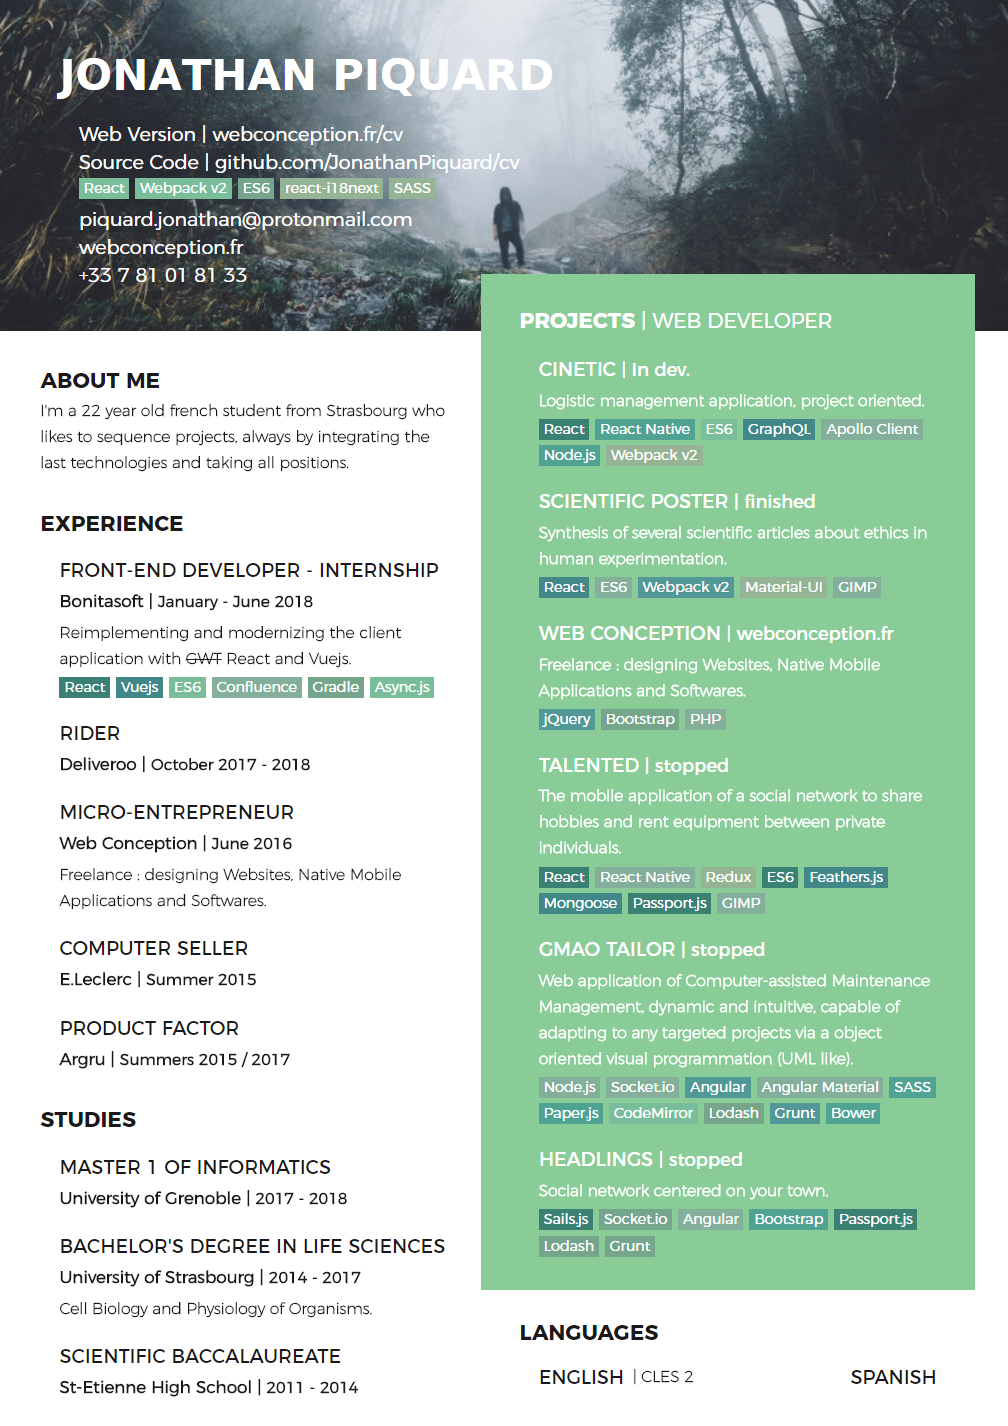
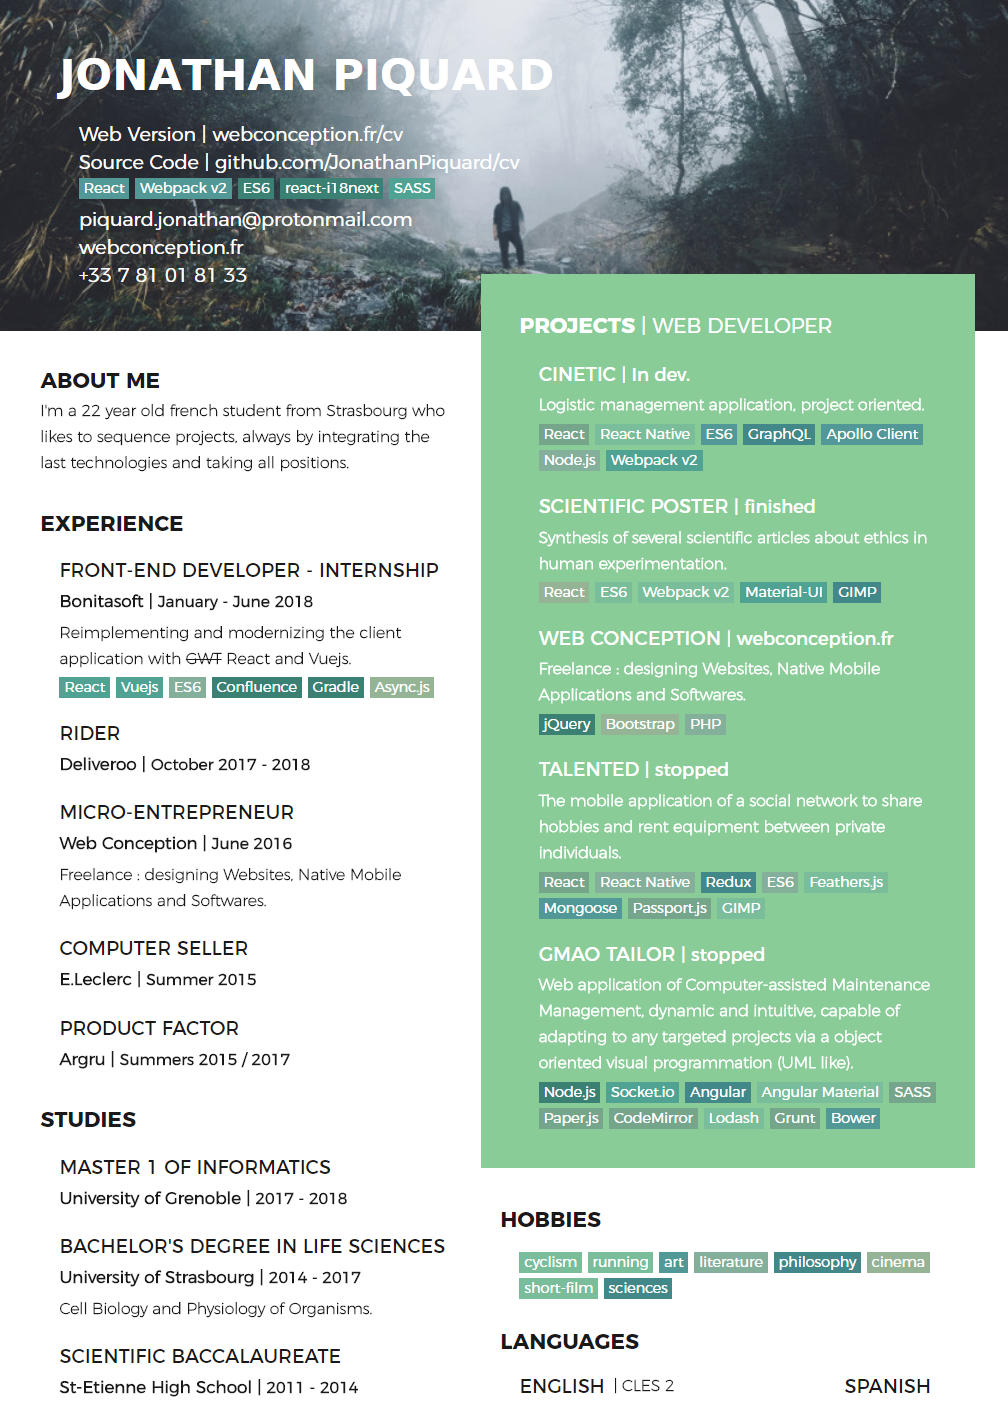
responsive adjustements

diff --git a/src/pages/CV/subparts/RightSection/index.js b/src/pages/CV/subparts/RightSection/index.js
@@ -47,24 +47,27 @@ class RightSection extends Component {
               <p className='category-item-description'>{t('rightSection.webProjects.items.gmao-tailor.description')}</p>
               <BadgeList technologies badges={['Node.js', 'Socket.io', 'Angular', 'Angular Material', 'SASS', 'Paper.js', 'CodeMirror', 'Lodash', 'Grunt', 'Bower']} />
             </div>
-
-            <div className='category-item'>
-              <h4 className='category-item-title'>Headlings<span className='category-item-title-mention'> | {t('rightSection.webProjects.items.headlings.status')}</span></h4>
-              <p className='category-item-description'>{t('rightSection.webProjects.items.headlings.description')}</p>
-              <BadgeList technologies badges={['Sails.js', 'Socket.io', 'Angular', 'Bootstrap', 'Passport.js', 'Lodash', 'Grunt']} />
-            </div>
           </div>
         </div>
 
-        <div id='languages' className='category'>
-          <h3 className='category-title'>{t('rightSection.languages.title')}</h3>
-          <div className='category-items'>
-            <div className='category-item category-item-with-description'>
-              <h4 className='category-item-title'>{t('rightSection.languages.items.english')}</h4>
-              <p className='category-item-description'>| CLES 2</p>
+        <div className="container-categories">
+          <div className='category'>
+            <h3 className='category-title'>{t('rightSection.hobbies.title')}</h3>
+            <div className='category-items'>
+              <BadgeList badges={["cyclism", "running", "art", "literature", "philosophy", "cinema", "short-film", "sciences"].map((hobby) => t('rightSection.hobbies.items.' + hobby))} />
             </div>
-            <div className='category-item'>
-              <h4 className='category-item-title'>{t('rightSection.languages.items.spanish')}</h4>
+          </div>
+
+          <div id="languages" className='category'>
+            <h3 className='category-title'>{t('rightSection.languages.title')}</h3>
+            <div className='category-items'>
+              <div className='category-item category-item-with-description'>
+                <h4 className='category-item-title'>{t('rightSection.languages.items.english')}</h4>
+                <p className='category-item-description'>| CLES 2</p>
+              </div>
+              <div className='category-item'>
+                <h4 className='category-item-title'>{t('rightSection.languages.items.spanish')}</h4>
+              </div>
             </div>
           </div>
         </div>

diff --git a/src/pages/CV/subparts/Header/styles.scss b/src/pages/CV/subparts/Header/styles.scss
@@ -3,10 +3,14 @@
     #header > div {
         > div {
             line-height: 20px;
-            margin: 25px 20px 5px 30px;
+            margin: 25px 20px 20px 30px;
 
             > h1 {
                 font-size: 23px;
+            }
+
+            > h4 a span {
+                font-size: 11px;
             }
 
             > div h4 {
@@ -20,10 +24,14 @@
     #header > div {
         > div {
             line-height: 24px;
-            margin: 25px 20px 5px 30px;
+            margin: 25px 20px 20px 30px;
 
             > h1 {
                 font-size: 30px;
+            }
+
+            > h4 a span {
+                font-size: 12px;
             }
 
             > div h4 {
@@ -35,10 +43,14 @@
 
 @media (min-width: 550px) {
     #header > div > div {
-        margin: 40px 30px 12px 45px;
+        margin: 40px 30px 30px 45px;
 
         > h1 {
             font-size: 28px;
+        }
+
+        > h4 a span {
+            font-size: 13px;
         }
 
         > div h4 {
@@ -54,6 +66,10 @@
 
             > h1 {
                 font-size: 36px;
+            }
+
+            > h4 a span {
+                font-size: 14px;
             }
 
             > div h4 {
@@ -87,6 +103,10 @@
 
             > div {
                 margin: 5px 0 5px 16px;
+
+                > h4 a span {
+                    font-style: italic;
+                }
 
                 h4 {
                     margin: 0;

diff --git a/src/pages/CV/subparts/RightSection/styles.scss b/src/pages/CV/subparts/RightSection/styles.scss
@@ -4,11 +4,6 @@
         > #webProjects {
             padding: 20px;
         }
-
-        > #languages {
-            padding-left: 20px;
-            padding-right: 20px;
-        }
     }
 }
 
@@ -16,11 +11,6 @@
     #rightSection {
         > #webProjects {
             padding: 46px;
-        }
-
-        > #languages {
-            padding-left: 46px;
-            padding-right: 46px;
         }
     }
 }
@@ -33,12 +23,7 @@
         padding-right: 27px;
 
         > #webProjects {
-            padding: 28px 32px;
-        }
-
-        > #languages {
-            padding-left: 32px;
-            padding-right: 32px;
+            padding: 32px;
         }
     }
 }
@@ -49,18 +34,18 @@
     flex: 1.1;
 
     > #webProjects {
-        margin-bottom: 12px;
         background-color: #8acc98;
         color: #fff;
     }
 
-    > #languages {
+    #languages {
         > .category-items {
             display: flex;
 
             > .category-item {
                 display: flex;
                 margin-top: 0;
+                margin-right: 16px;
 
                 > .category-item-description {
                     margin: 0 0 0 7.5px;

diff --git a/src/pages/CV/subparts/LeftSection/index.js b/src/pages/CV/subparts/LeftSection/index.js
@@ -13,7 +13,7 @@ class LeftSection extends Component {
     const { t } = this.props;
 
     return (
-      <section id='leftSection'>
+      <section id='leftSection' className="container-categories">
         <div className='category'>
           <h3 className='category-title'>{t('leftSection.about-me.title')}</h3>
           <p className='category-description'>{t('leftSection.about-me.description')}</p>
@@ -66,17 +66,6 @@ class LeftSection extends Component {
             </div>
           </div>
         </div>
-
-        {
-          /*
-            <div className='category'>
-              <h3 className='category-title'>{t('leftSection.hobbies.title')}</h3>
-              <div className='category-items'>
-                <BadgeList badges={["cyclism", "running", "art", "literature", "philosophy", "cinema", "short-film", "sciences"].map((hobby) => t('leftSection.hobbies.items.' + hobby))} />
-              </div>
-            </div>
-          */
-        }
 
       </section>
     );

diff --git a/src/pages/CV/styles.scss b/src/pages/CV/styles.scss
@@ -1,5 +1,9 @@
 
 @media (max-width: 429px) {
+    .container-categories {
+        padding: 10px;
+    }
+
     #container .category {
         padding: 10px;
 
@@ -42,6 +46,10 @@
 }
 
 @media (min-width: 430px) {
+    .container-categories {
+        padding: 30px;
+    }
+
     #container .category {
         padding: 12px 16px;
 
@@ -86,6 +94,10 @@
 }
 
 @media (min-width: 730px) {
+    .container-categories {
+        padding: 18px 9px 18px 18px;
+    }
+
     #container .category > .category-items {
         margin-left: 16px;
     }
@@ -128,6 +140,12 @@
     > article {
         display: flex;
         flex: 1;
+
+        .container-categories {
+            display: flex;
+            flex-direction: column;
+            flex: 1;
+        }
 
         .category {
             > .category-title {

diff --git a/src/pages/CV/subparts/Header/index.js b/src/pages/CV/subparts/Header/index.js
@@ -22,10 +22,10 @@ class Header extends Component {
 
             <div>
               <h4>
-                <a href='https://webconception.fr/cv'>{t('header.web-version')} | webconception.fr/cv</a>
+                <a href='https://webconception.fr/cv'>{t('header.web-version')} | <span>webconception.fr/cv</span></a>
               </h4>
               <h4>
-                <a href='https://github.com/JonathanPiquard/cv.git'>{t('header.source-code')} | github.com/JonathanPiquard/cv</a>
+                <a href='https://github.com/JonathanPiquard/cv.git'>{t('header.source-code')} | <span>github.com/JonathanPiquard/cv</span></a>
               </h4>
               <BadgeList technologies badges={['React', 'Webpack v2', 'ES6', 'react-i18next', 'SASS']} />
             </div>

diff --git a/src/components/Badge/styles.scss b/src/components/Badge/styles.scss
@@ -1,12 +1,19 @@
 
 @media (max-width: 429px) {
     .badge {
-      font-size: 11px;
-      line-height: 17px;
+      font-size: 9px;
+      line-height: 12px;
     }
 }
 
-@media (min-width: 430px) {
+@media (max-width: 729px) {
+    .badge {
+      font-size: 11px;
+      line-height: 16px;
+    }
+}
+
+@media (min-width: 730px) {
     .badge {
       font-size: 12px;
       line-height: 18px;
@@ -18,8 +25,8 @@
     text-align: center;
     display: inline-block;
     box-sizing: border-box;
-    padding: 0 4px;
     margin: 2px 2.5px;
+    padding: 0 4px;
     color: #fff;
 
     .tooltip {

diff --git a/src/i18n.js b/src/i18n.js
@@ -14,7 +14,7 @@ i18n
     },
     debug: true,
 
-    lng: 'fr', // you can change it by hand or drop it and implement some buttons over the CV to handle language switching
+    lng: 'en', // you can change it by hand or drop it and implement some buttons over the CV to handle language switching
 
     // have a common namespace used around the full app
     ns: ['translations'],
